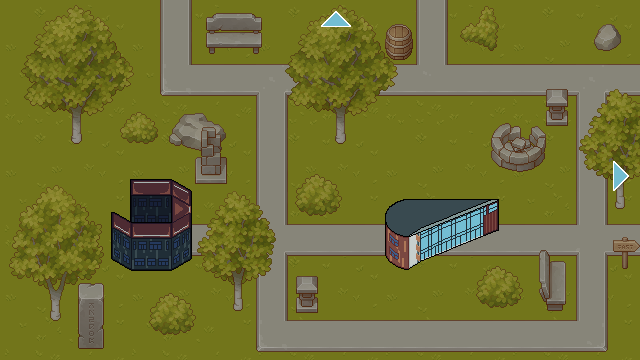
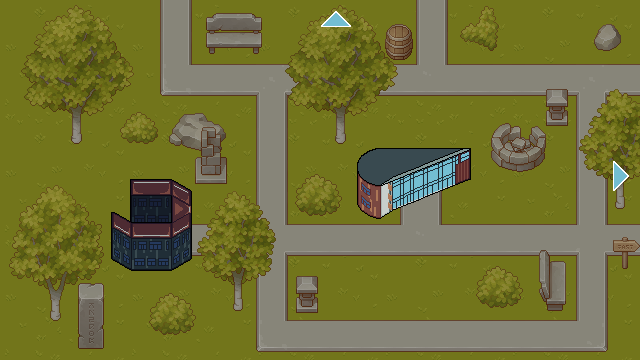
Made soeme changes to the map, buildings look a bit nicer now :)

Changed region(s): [[0.5312, 0.3972, 0.7812, 0.7639]]

diff --git a/libGDX/core/src/com/heslington_hustle/game/Player.java b/libGDX/core/src/com/heslington_hustle/game/Player.java
@@ -241,7 +241,6 @@ public class Player {
     }
 	
 	private void initializeInaccessibleRegions() {
-		// Screen 1
 		inaccessibleRegionsScreen1 = new Rectangle[] { 
 				new Rectangle(191, 360-65, 226, 66),
 				new Rectangle(447, 360-65, 192, 65),
@@ -249,12 +248,13 @@ public class Player {
 				new Rectangle(0, 360-224, 256, 129),
 				new Rectangle(0, 360-256, 192, 32),
 				new Rectangle(0, 360-360, 256, 105),
-				new Rectangle(288, 360-224, 288, 129),
+				new Rectangle(287, 360-224, 114, 130),
 				new Rectangle(608, 360-224, 32, 129),
-				new Rectangle(288, 360-320, 288, 65),
-				new Rectangle(385, 360-270, 114, 72),
+				new Rectangle(287, 360-320, 288, 65),
+				new Rectangle(441, 360-224, 136, 130),
 				new Rectangle(254, 360-360, 386, 9),
 				new Rectangle(608, 360-360, 32, 105),
+				new Rectangle(400, 360-208, 42, 114),
 				};
 		inaccessibleRegionsScreen2 = new Rectangle[] { 
 				new Rectangle(0, 360-65, 97, 66),
@@ -263,13 +263,13 @@ public class Player {
 				new Rectangle(352, 360-256, 288, 34),
 				new Rectangle(255, 360-224, 161, 66),
 				new Rectangle(127, 360-224, 98, 162),
-				new Rectangle(224, 360-128, 97, 66),
 				new Rectangle(127, 360-32, 290, 33),
 				new Rectangle(351, 360-128, 66, 66),
-				new Rectangle(447, 360-360, 193, 298),
-				new Rectangle(406, 360-107, 126, 45),
+				new Rectangle(447, 360-360, 193, 253),
 				new Rectangle(607, 360-76, 33, 77),
 				new Rectangle(447, 360-32, 130, 33),
+				new Rectangle(530, 360-108, 110, 46),
+				new Rectangle(447, 360-78, 53, 16),
 				};
 		inaccessibleRegionsScreen3 = new Rectangle[] { 
 				new Rectangle(0, 360-360, 161, 200),

diff --git a/libGDX/core/src/com/heslington_hustle/screens/Map.java b/libGDX/core/src/com/heslington_hustle/screens/Map.java
@@ -160,17 +160,15 @@ public class Map implements Screen{
 		
 		// Student Hub
 		interactRegions = new Rectangle[] { 
-				new Rectangle(345, 360-255, 40, 32),
-				new Rectangle(499, 360-255, 48, 32),
+				new Rectangle(399, 360-255, 44, 68),
 				};
-		objects[1] = new Building(game, "Student Hub", interactRegions, 1, "E: Study", 400, 360-182, 400, 360-259, game.minigames[1], 60f, 3);
+		objects[1] = new Building(game, "Student Hub", interactRegions, 1, "E: Study", 375, 360-130, 375, 360-185, game.minigames[1], 60f, 3);
 		
 		// Library
 		interactRegions = new Rectangle[] { 
-				new Rectangle(416, 360-141, 32, 34),
-				new Rectangle(399, 360-63, 140, 32),
+				new Rectangle(416, 360-110, 115, 69),
 				};
-		objects[2] = new Building(game, "Library", interactRegions, 2, "E: Study", 425, 360-41, 425, 360-91, game.minigames[1], 60f, 3);
+		objects[2] = new Building(game, "Library", interactRegions, 2, "E: Study", 440, 360-72, 440, 360-128, game.minigames[1], 60f, 3);
 		
 		// Lake
 		interactRegions = new Rectangle[] { 
